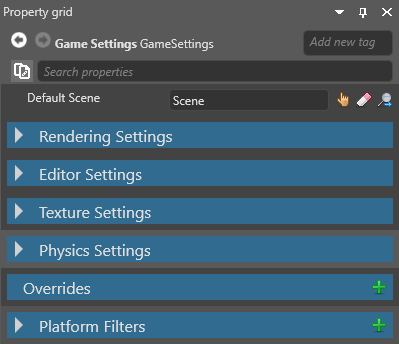
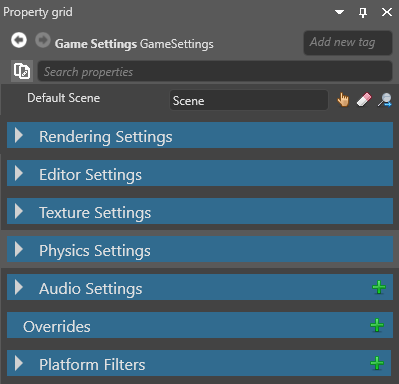
[Audio] update hrtf.md

diff --git a/manual/game-studio/game-settings.md b/manual/game-studio/game-settings.md
@@ -50,7 +50,6 @@ For more information about scenes, see [Introduction to scenes](../get-started/i
 | Color space                 | The color space (gamma or linear) used for rendering. This affects the game at runtime and how elements are displayed in Game Studio.                                           |
 | Display orientation         | The display orientation of the game (default, portrait, left landscape, or right landscape).                                                                                    |
 | Target graphics platform    | The target platform Xenko builds the project for. If you set this to **Default**, Xenko chooses the most appropriate platform.                                                                                                   |
-
 ### Editor settings
 
 The editor settings control how Game Studio displays entities in the scene editor. These settings have no effect on your game at runtime.
@@ -82,6 +81,14 @@ The editor settings control how Game Studio displays entities in the scene edito
 | Flags           | **CollisionsOnly** disables [physics](../physics/index.md) except for collisions. For example, if this is enabled, objects aren't moved by gravity, but will still collide if you move them manually. **ContinuousCollisionDetection** prevents fast-moving entities erroneously moving through other entities. Note: other flags listed here aren't enabled yet, and will work in future versions. |
 | Max sub steps   | The maximum number of simulations the the physics engine can run in a frame to compensate for slowdown.                                                                                                                                                                                      |
 | Fixed time step | The length in seconds of a physics simulation frame. The default is 0.016667 (one sixtieth of a second).                                                                                                                                                                                                                                       |       |
+
+### Audio
+
+![Audio settings](media/audio-settings.png)
+
+| Property     | Description                                              |
+|--------------|----------------------------------------------------------|
+| HRTF support | Enable HRTF audio. Note that only audio emitters with HRTF enabled will produce HRTF audio. For more details, see [HRTF](hrtf.md). |
 
 ### Overrides
 

diff --git a/manual/audio/hrtf.md b/manual/audio/hrtf.md
@@ -14,11 +14,25 @@ This video demonstrates the effect of HRTF audio:
 
 ## Enable HRTF
 
-To use HRTF, first enable it globally in the **Game Settings** asset.
+To use HRTF, first enable it globally in the **Game Settings** asset, then enable HRTF on the entities you want to use it with.
 
+### 1. Enable HRTF globally
 
+1. In the **solution explorer** (the bottom-left pane by default), select the **Assets folder**.
 
-1. 
+    ![Select Assets folder asset](../game-studio/media/select-asset-folder.png)
+
+2. In the **asset view** (the bottom pane by default), select the **GameSettings** asset.
+
+    ![Select Game Settings asset](../game-studio/media/select-game-settings-asset.png)
+
+3. In the **property grid** (the right-hand pane by default), under **Audio settings**, select **HRTF support**.
+
+    ![Audio settings](../game-studio/media/audio-settings.png)
+
+For more information about the Game Settings asset, see [Game settings](../game-studio/game-settings.md).
+
+### 2. Enable HRTF on the entities
 
 1. Select the entity with the audio emitter that contains the sound you want to enable for HRTF.
 
@@ -33,9 +47,10 @@ To use HRTF, first enable it globally in the **Game Settings** asset.
     
 For more information about audio emitters, including the properties you can change, see [Audio emitters](audio-emitters.md).
 
-## See also
+### See also
 
 * [Head-related transfer function (Wikipedia)](https://en.wikipedia.org/wiki/Head-related_transfer_function)
 * [Spatialized audio](spatialized-audio.md)
 * [Audio emitters](audio-emitters.md)
 * [Audio listeners](audio-listeners.md)
+* [Game settings](../game-studio/game-settings.md).
